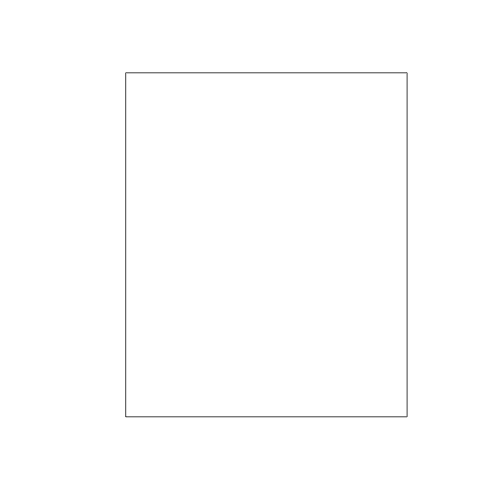
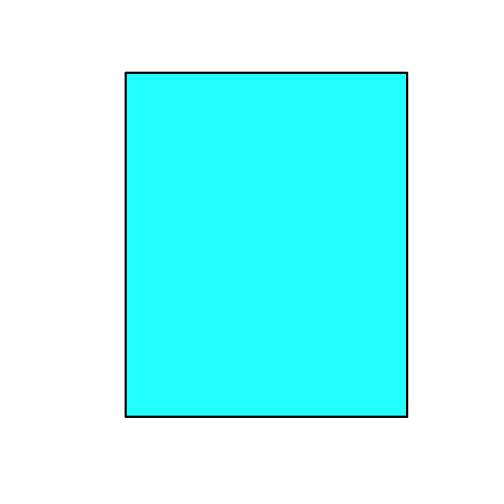
add obj block to first 2 lessons

diff --git a/_posts/2015-10-26-L00-open-a-shapefile.md b/_posts/2015-10-26-L00-open-a-shapefile.md
@@ -24,6 +24,7 @@ permalink: /R/open-shapefiles-in-R/
 </div>
 </section><!-- /#table-of-contents -->
 
+
 ##About
 In this lesson, we will work with vector data in R. We will open and plot point, 
 line, and polygon data, stored in `shapefile` format, in R.
@@ -34,8 +35,53 @@ After completing this activity, you will:
  * Know the difference between point, line, and polygon vector elements.
  * Understand the differences between opening point, line and polygon shapefiles in R.
  * Understand the components of a _spatial object_ (in R)
+
+<div id="objectives">
+<h3>What you'll need</h3>
+
+You will need the most current version of R or R studio loaded on your computer 
+to complete this lesson.
+
+<h3>R Libraries to Install:</h3>
+<ul>
+<li><strong>raster:</strong> <code> install.packages("raster")</code></li>
+<li><strong>sp:</strong> <code> install.packages("sp")</code></li>
+<li><strong>rgdal:</strong> <code> install.packages("rgdal")</code></li>
+<li><strong>ggplot2:</strong> <code> install.packages("ggplot2")</code></li>
+</ul>
+
+<a href="{{ site.baseurl }}/R/Packages-In-R/" target="_blank"> 
+More on Packages in R - Adapted from Software Carpentry.</a>
+
+<h2>Data to Download</h2>
+
+Download the raster and <i>insitu</i> collected vegetation structure data:
+
+<a href="http://files.figshare.com/2387960/boundaryFiles.zip" class="btn btn-success"> 
+DOWNLOAD Harvard Forest Shapefiles</a>
+
+<h3>Recommended Reading</h3>
+This lesson is a part of a series on vector and raster data in R.
+
+<ol>
+<li> <a href="{{ site.baseurl }}/R/open-shapefiles-in-R/">
+Intro to shapefiles in R</a></li>
+<li><a href="{{ site.baseurl }}/R/shapefile-attributes-in-R/">
+Intro to shapefiles in R</a></li>
+<li><a href="{{ site.baseurl }}/R/csv-to-shapefile-R/">
+CSV to Shapefile in R</a></li>
+<li><a href="{{ site.baseurl }}/R/crop-extract-raster-data-R/">
+Crop and extract raster values in R</a></li>
+</ol>
+</div>
+
+> NOTE: The data used in this tutorial were collected at Harvard Forest which is
+> a the National Ecological Observatory Network field site <a href="http://www.neoninc.org/science-design/field-sites/harvard-forest" target="_blank">
+> Domain 17 California field site</a>. THese data are proxy data for what will be
+> available for 30 years from the NEON flux tower [from the NEON data portal](http://data.neoninc.org/ "NEON data").
+
  
-###Tools To Install
+###Notes about R Libraries
 
 To work with vector data in R, we can use the `rgdal` library. We will load the `raster`
 library to work with rasters. The `raster` library also allows us to explore metadata
@@ -46,7 +92,6 @@ using similar commands with both rasters and vectors.
     library(rgdal)
     library(raster)
 
-###Recommended Pre-Lesson Reading
 
 #About Vector Data
 Vector data are composed of discrete geometric locations (x,y values) that make 
@@ -92,8 +137,9 @@ shapefiles include
 * a point shapefile representing the location of a [flux tower](http://www.neoninc.org/science-design/collection-methods/flux-tower-measurements) located at the NEON 
 Harvard Forest field site.
 
-The first shapefile we will open, contains the boundary of our study area. 
-It is a polygon layer.
+The first shapefile that we will open, contains the boundary of our study area. 
+It is a polygon layer. We can tell it is a polygon by viewing it's `class` in the 
+attributes of the object which is `SpatialPolygonsDataFrame`.
 
 
     #Import a polygon shapefile 
@@ -123,7 +169,10 @@ It is a polygon layer.
     ## 0  1
 
     #create a quick plot of the shapefile
-    plot(aoiBoundary)
+    #note: lwd sets the line width!
+    #for a list of r color options 
+    #https://codeyarns.files.wordpress.com/2011/07/20110729-vim-named-colors.png?w=700
+    plot(aoiBoundary,col="cyan1", border="black", lwd=3)
 
 ![ ]({{ site.baseurl }}/images/rfigs/00-open-a-shapefile/Import-Shapefile-1.png) 
 
@@ -132,11 +181,11 @@ It is a polygon layer.
 When we import the `HarClip_UTMZ18` layer into R, some key metadata are stored
 with the spatial R object:
 
-1. ** object type: **  in this case our area of interest (AOI) is a polygon boundary
+1. **Object Type: **  in this case our area of interest (AOI) is a polygon boundary
 R knows to bring it in as a `SpatialPolygonsDataFrame`
 2. **CRS** - The shapefile also contains projection information `coord ref.` in the output 
 above.
-3. **extent** - we can see the spatial extent of the shapefile. Note that the spatial
+3. **Extent** - we can see the spatial extent of the shapefile. Note that the spatial
 extent for a shapefile represents the extent for ALL polygons (or spatial objects)
 in the shapefile!
 
@@ -176,15 +225,7 @@ commands:
 
 
 
-    ## OGR data source with driver: ESRI Shapefile 
-    ## Source: "boundaryFiles/HARV/", layer: "HARV_roadStream"
-    ## with 13 features
-    ## It has 15 fields
-
-    ## OGR data source with driver: ESRI Shapefile 
-    ## Source: "boundaryFiles/HARV/", layer: "HARVtower_UTM18N"
-    ## with 1 features
-    ## It has 14 fields
+    ## Error in ogrInfo(dsn = dsn, layer = layer, encoding = encoding, use_iconv = use_iconv, : Cannot open layer
 
 #Shapefile Attributes
 Each spatial object in a shapefile can have the same set of attributes. These attributes
@@ -273,4 +314,8 @@ span 2 lines, use `\n` where you'd like the line break.
 
 ![ ]({{ site.baseurl }}/images/rfigs/00-open-a-shapefile/plot-multiple-shapefiles-1.png) 
 
+#Another On Your Own Activity
 
+>More here on what this is
+>
+>

diff --git a/_posts/2015-10-26-L01-shapefile-attributes.md b/_posts/2015-10-26-L01-shapefile-attributes.md
@@ -26,9 +26,10 @@ permalink: /R/shapefile-attributes-in-R/
 
 
 ##About
-This lesson explains what an attribute is associated with shapefiles and also
-how to work with attributes in `R`. It covers how to identify and query shapefile 
-attributes as well as subset shapefiles by specific attribute values.
+This lesson explains what attributes in shapefiles are. It also covers how to work 
+with shapefile attributes in `R`. It covers how to identify and query shapefile 
+attributes as well as subset shapefiles by specific attribute values. Finally,
+we will review how to plot a shapefile according to a set of attribute values.
 
 ###Goals / Objectives
 After completing this activity, you will:
@@ -37,7 +38,56 @@ After completing this activity, you will:
  * Be able to subset shapefiles based on specific attributes
  
  
+<div id="objectives">
+<h3>What you'll need</h3>
+
+You will need the most current version of R or R studio loaded on your computer 
+to complete this lesson.
+
+<h3>R Libraries to Install:</h3>
+<ul>
+<li><strong>raster:</strong> <code> install.packages("raster")</code></li>
+<li><strong>rgdal:</strong> <code> install.packages("rgdal")</code></li>
+<li><strong>ggplot2:</strong> <code> install.packages("ggplot2")</code></li>
+</ul>
+
+<a href="{{ site.baseurl }}/R/Packages-In-R/" target="_blank"> 
+More on Packages in R - Adapted from Software Carpentry.</a>
+
+<h2>Data to Download</h2>
+
+Download the shapefiles neede to complete this lesson:
+
+<a href="http://files.figshare.com/2387960/boundaryFiles.zip" class="btn btn-success"> 
+DOWNLOAD Harvard Forest Shapefiles</a>
+
+<h3>Recommended Reading</h3>
+This lesson is a part of a series on vector and raster data in R.
+
+<ol>
+<li> <a href="{{ site.baseurl }}/R/open-shapefiles-in-R/">
+Intro to shapefiles in R</a></li>
+<li><a href="{{ site.baseurl }}/R/shapefile-attributes-in-R/">
+Intro to shapefiles in R</a></li>
+<li><a href="{{ site.baseurl }}/R/csv-to-shapefile-R/">
+CSV to Shapefile in R</a></li>
+<li><a href="{{ site.baseurl }}/R/crop-extract-raster-data-R/">
+Crop and extract raster values in R</a></li>
+</ol>
+
+</div>
+
+> NOTE: The data used in this tutorial were collected at Harvard Forest which is
+> a the National Ecological Observatory Network field site <a href="http://www.neoninc.org/science-design/field-sites/harvard-forest" target="_blank">
+> Domain 17 California field site</a>. These data are proxy data for what will be
+> available for 30 years from the NEON flux tower 
+> [from the NEON data portal](http://data.neoninc.org/ "NEON data").
  
+ ###Notes about R Libraries
+
+To work with vector data in R, we can use the `rgdal` library. We will load the `raster`
+library to work with rasters. The `raster` library also allows us to explore metadata
+using similar commands with both rasters and vectors.
  
 ##Querying shapefile attributes
 
@@ -55,10 +105,7 @@ After completing this activity, you will:
     #Import a line shapefile
     lines <- readOGR( "boundaryFiles/HARV/",layer = "HARV_roadStream")
 
-    ## OGR data source with driver: ESRI Shapefile 
-    ## Source: "boundaryFiles/HARV/", layer: "HARV_roadStream"
-    ## with 13 features
-    ## It has 15 fields
+    ## Error in ogrInfo(dsn = dsn, layer = layer, encoding = encoding, use_iconv = use_iconv, : Cannot open layer
 
     #Import a point shapefile 
     point <- readOGR("boundaryFiles/HARV/", "HARVtower_UTM18N")

diff --git a/_posts/2015-10-26-L03-vector-raster-integration-advanced.md b/_posts/2015-10-26-L03-vector-raster-integration-advanced.md
@@ -61,10 +61,7 @@ polygon shapefile.
     #Import a line shapefile
     lines <- readOGR( "boundaryFiles/HARV/",layer = "HARV_roadStream")
 
-    ## OGR data source with driver: ESRI Shapefile 
-    ## Source: "boundaryFiles/HARV/", layer: "HARV_roadStream"
-    ## with 13 features
-    ## It has 15 fields
+    ## Error in ogrInfo(dsn = dsn, layer = layer, encoding = encoding, use_iconv = use_iconv, : Cannot open layer
 
     #Import a point shapefile 
     point <- readOGR("boundaryFiles/HARV/", "HARVtower_UTM18N")

diff --git a/_posts/2015-10-26-L02-csv-vector-raster-plotting.md b/_posts/2015-10-26-L02-csv-vector-raster-plotting.md
@@ -214,10 +214,7 @@ data!
     #add roads to our plot
     roads <- readOGR("boundaryFiles/HARV/","HARV_roadStream")
 
-    ## OGR data source with driver: ESRI Shapefile 
-    ## Source: "boundaryFiles/HARV/", layer: "HARV_roadStream"
-    ## with 13 features
-    ## It has 15 fields
+    ## Error in ogrInfo(dsn = dsn, layer = layer, encoding = encoding, use_iconv = use_iconv, : Cannot open layer
 
     plot(roads, add=TRUE)
 
